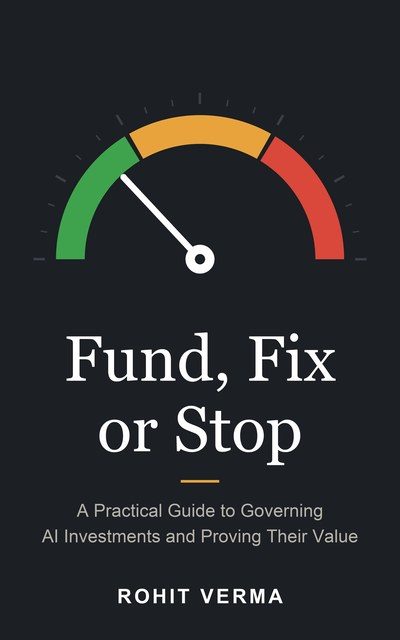
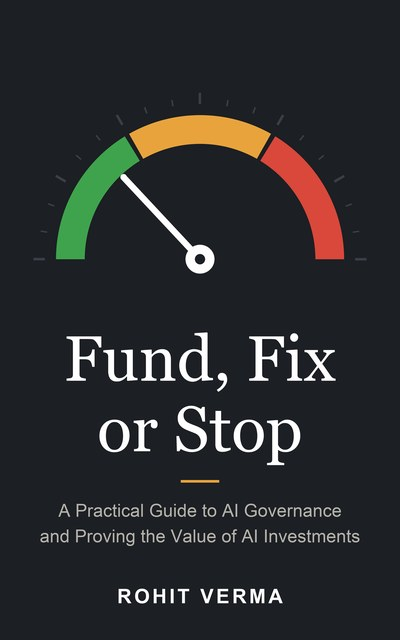
Add files via upload

Changed region(s): [[0.09, 0.7812, 0.9, 0.875]]

diff --git a/fund-fix-or-stop/index.html b/fund-fix-or-stop/index.html
@@ -4,7 +4,7 @@
   <meta charset="UTF-8" />
   <meta name="viewport" content="width=device-width, initial-scale=1.0" />
   <title>Fund, Fix or Stop: Templates · ValueSpring LLC</title>
-  <meta name="description" content="Editable Excel templates for the book Fund, Fix or Stop: A Practical Guide to Governing AI Investments and Proving Their Value." />
+  <meta name="description" content="Editable Excel templates for the book Fund, Fix or Stop: A Practical Guide to AI Governance and Proving the Value of AI Investments." />
   <link rel="canonical" href="https://valuespringllc.com/fund-fix-or-stop/" />
   <link rel="icon" href="/favicon.svg" type="image/svg+xml" />
   <link rel="icon" href="/favicon-32.png" sizes="32x32" type="image/png" />
@@ -96,25 +96,31 @@
       <div>
         <span class="label">Book templates</span>
         <h1>Fund, Fix <em>or Stop</em></h1>
-        <p class="sub">Editable versions of the templates in <em>Fund, Fix or Stop: A Practical Guide to Governing AI Investments and Proving Their Value</em>, by Rohit Verma.</p>
+        <p class="sub">Editable versions of the templates in <em>Fund, Fix or Stop: A Practical Guide to AI Governance and Proving the Value of AI Investments</em>, by Rohit Verma.</p>
       </div>
     </div>
 
     <div class="download">
       <a class="btn" href="Fund_Fix_or_Stop_Templates.xlsx" download>Download the templates (Excel)</a>
-      <p class="meta">Fund_Fix_or_Stop_Templates.xlsx · one workbook, about 40 KB · no sign-up</p>
+      <p class="meta">Fund_Fix_or_Stop_Templates.xlsx · one workbook, about 50 KB · no sign-up</p>
     </div>
 
     <h2>What is in the workbook</h2>
     <ul>
       <li>Self-assessment</li>
-      <li>AI inventory entry and intake and tiering form</li>
+      <li>Review board charter</li>
+      <li>AI inventory entry and discovery checklist</li>
+      <li>Intake and tiering form</li>
+      <li>Gateway control checklist and model selection record</li>
+      <li>Agent approval record and promotion checklist</li>
+      <li>Five-test scorecard and threshold sheet with the status rules</li>
+      <li>Quality and value measurement plans, with value leakage</li>
+      <li>Monthly cost report</li>
+      <li>Recovery plan and incident record</li>
       <li>Explore entry scorecard and gate decision record</li>
-      <li>Threshold sheet with the status rules, and the five-test scorecard</li>
-      <li>Value measurement and leakage, and the monthly cost report</li>
       <li>Leadership page and Red decision memo</li>
-      <li>General-purpose tool value plan and vendor checklist</li>
       <li>90-day plan tracker</li>
+      <li>General-purpose tool value plan and vendor checklist</li>
       <li>Three completed examples: a threshold sheet, a Red decision memo and a value confirmation</li>
     </ul>
     <p>Yellow cells are inputs. The other cells calculate, so each sheet can be reused with an organization’s own figures. The completed examples use the book’s fictional bank, and every figure in them is illustrative.</p>

diff --git a/index.html b/index.html
@@ -359,7 +359,7 @@
           <h3>Fund, Fix <em>or Stop</em></h3>
           <span class="app-tag">Book · AI Governance · Kindle</span>
           <p class="app-desc">
-            A practical guide to governing AI investments and proving their value. Free editable templates for every chapter.
+            A practical guide to AI governance and proving the value of AI investments. Free editable templates for every chapter.
           </p>
           <div class="app-links">
             <a href="/fund-fix-or-stop/" class="app-link">Templates <svg aria-hidden="true" viewBox="0 0 24 24" fill="none" stroke="currentColor" stroke-width="2"><path d="M5 12h14M12 5l7 7-7 7"/></svg></a>
